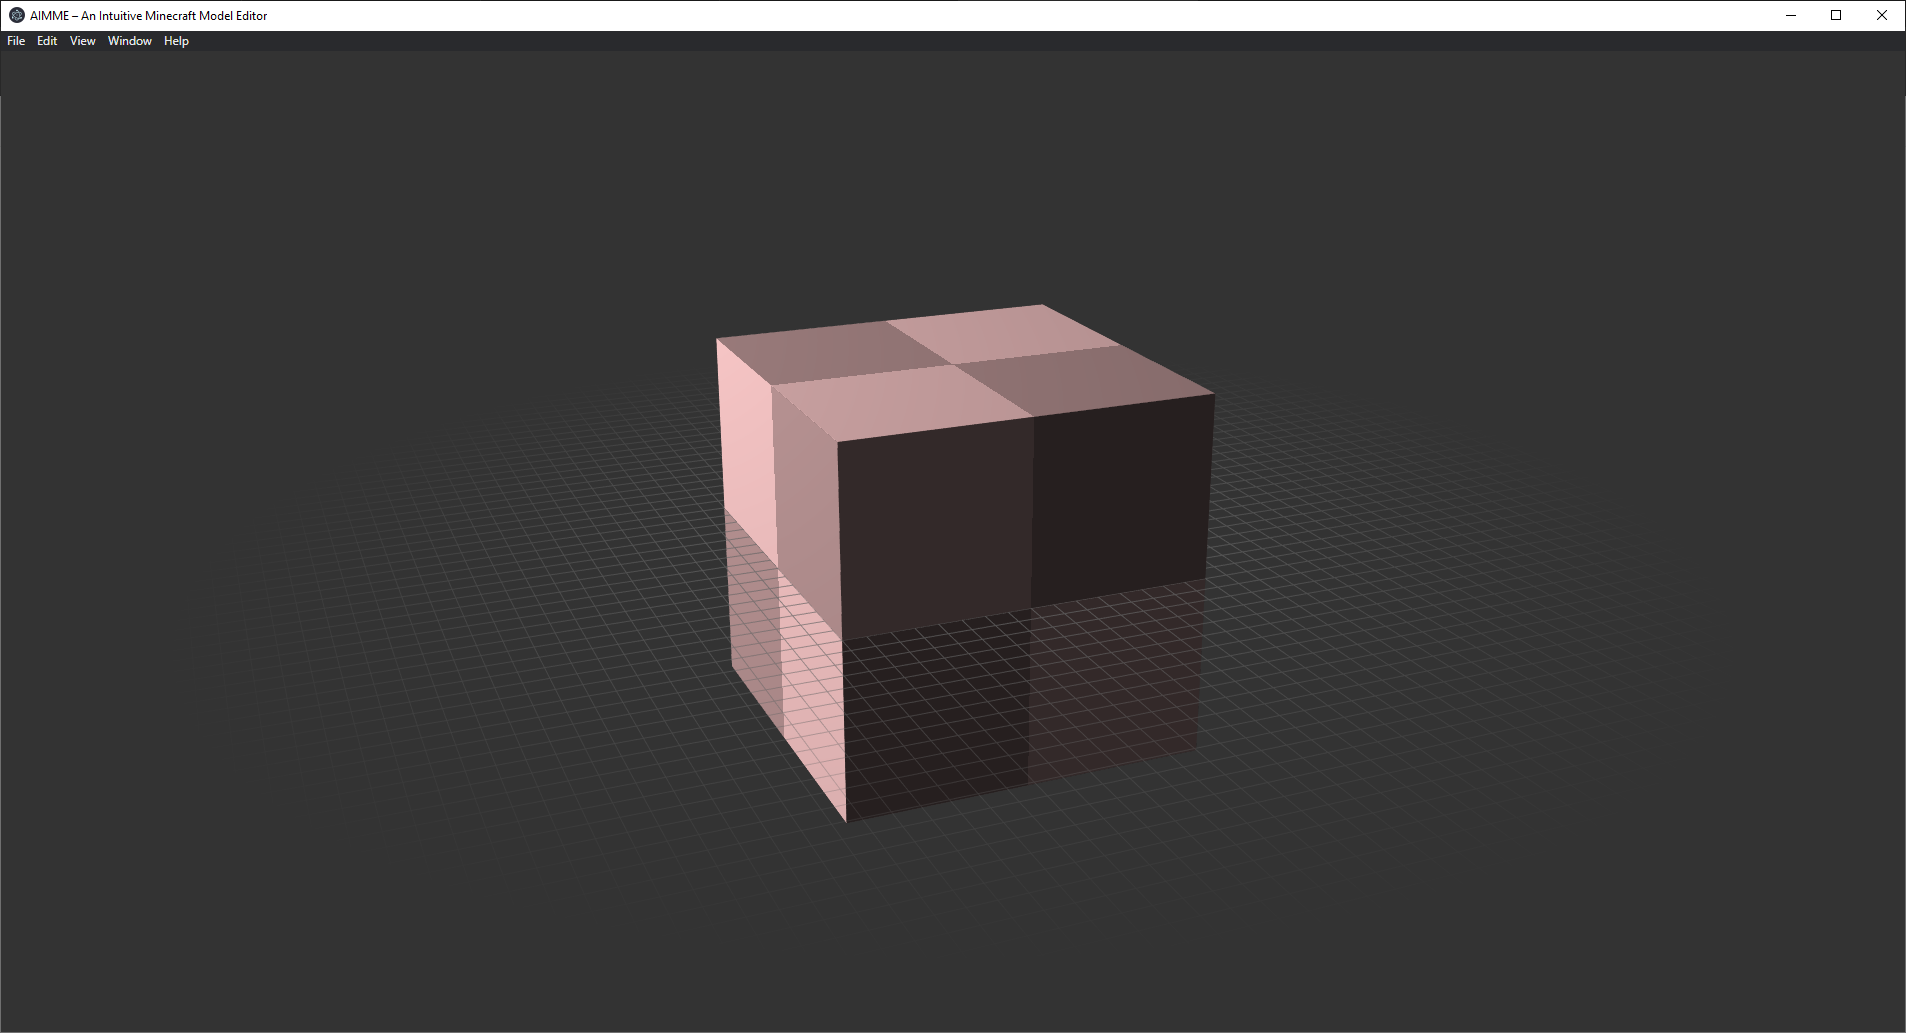
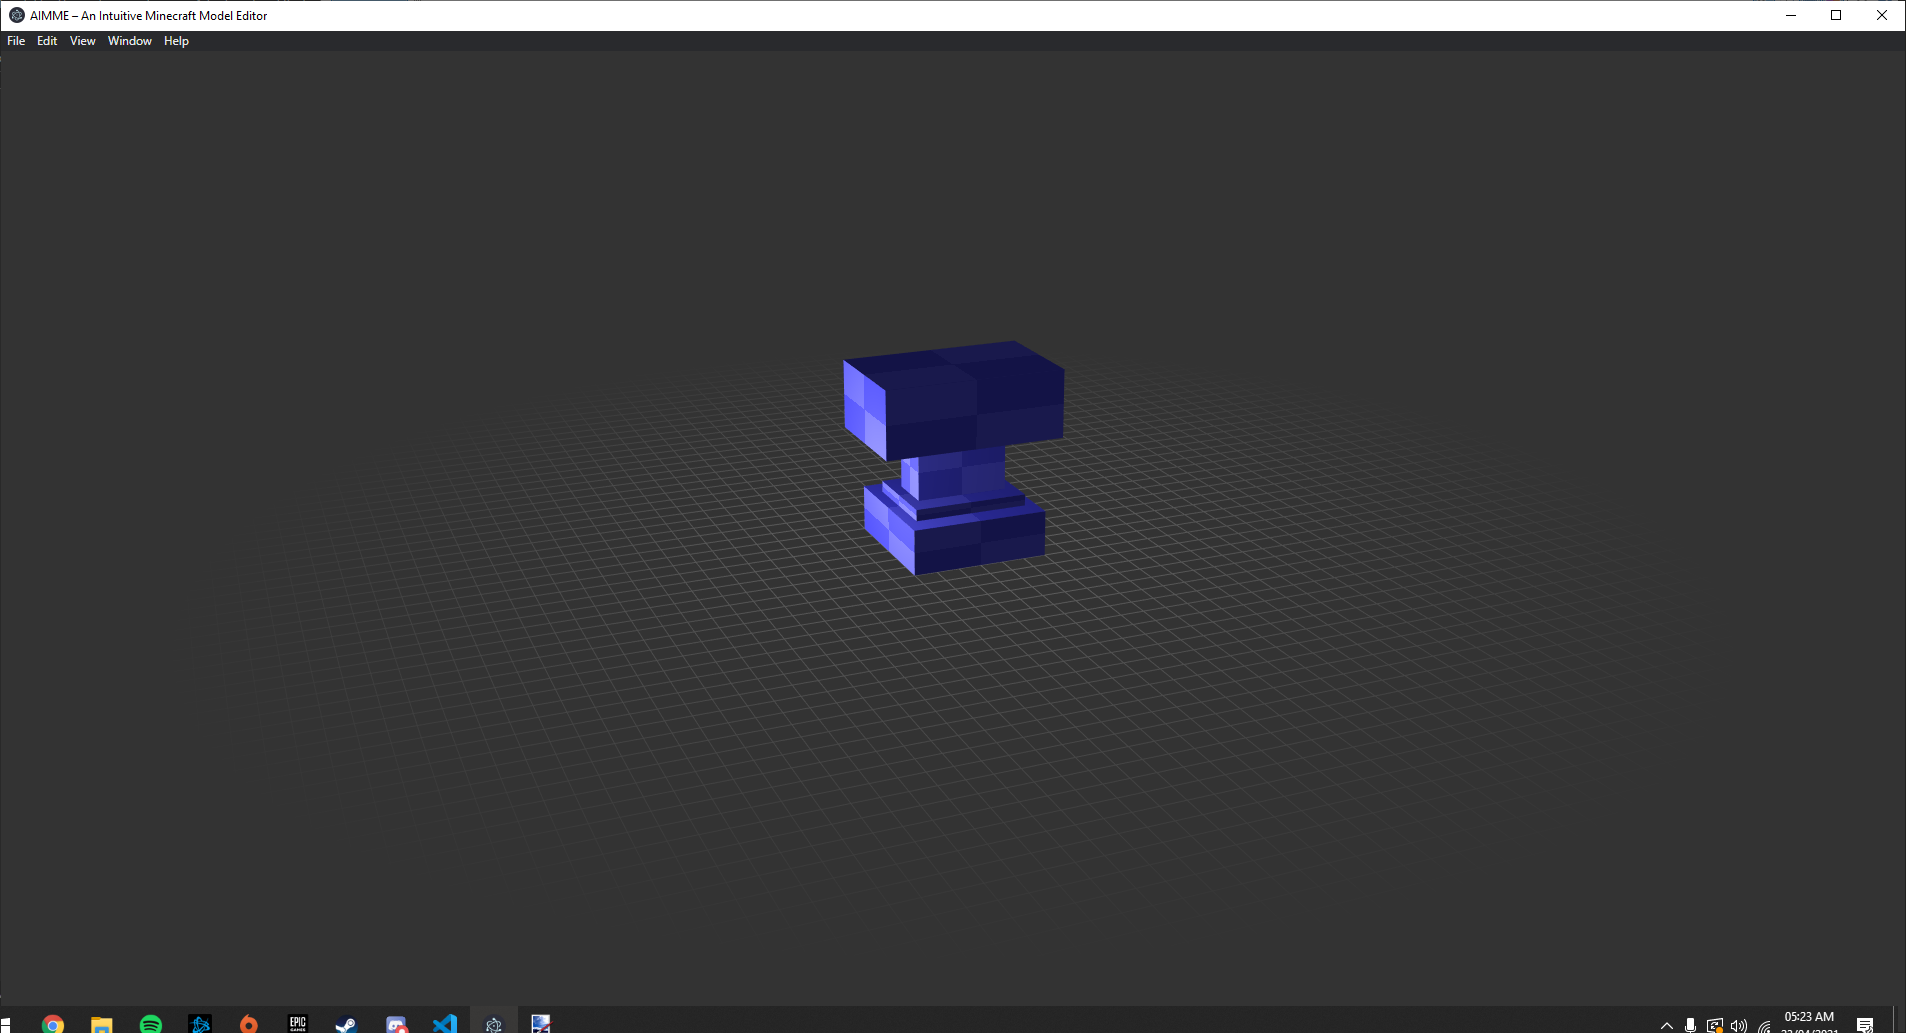
Added JSON model support

Changed region(s): [[0.3715, 0.2788, 0.6501, 0.8054], [0.0, 0.9603, 1.0, 1.0]]

diff --git a/src/mesh.js b/src/mesh.js
@@ -5,10 +5,10 @@ function generateGridMesh() {
     indices = [];
 
     var gridSize = 64;
-    var inc = 1.0/gridSize;
-    
-    for (let i = -gridSize/2; i < gridSize/2; i++) {
-        for (let j = -gridSize/2; j < gridSize/2; j++) {
+    var inc = 1.0 / gridSize;
+
+    for (let i = -gridSize / 2; i < gridSize / 2; i++) {
+        for (let j = -gridSize / 2; j < gridSize / 2; j++) {
             let k = indices.length;
 
             vertices.push(i, 0, j);
@@ -31,23 +31,89 @@ function generateGridMesh() {
 
     let k = indices.length;
 
-    vertices.push(gridSize/2, 0, -gridSize/2);
+    vertices.push(gridSize / 2, 0, -gridSize / 2);
     colours.push(0.0, 1.0, 1.0);
     indices.push(k);
 
-    vertices.push(gridSize/2, 0, gridSize/2);
+    vertices.push(gridSize / 2, 0, gridSize / 2);
     colours.push(0.0, 1.0, 1.0);
     indices.push(k + 1);
 
-    vertices.push(-gridSize/2, 0, gridSize/2);
+    vertices.push(-gridSize / 2, 0, gridSize / 2);
     colours.push(1.0, 0.0, 0.0);
     indices.push(k + 2);
 
-    vertices.push(gridSize/2, 0, gridSize/2);
+    vertices.push(gridSize / 2, 0, gridSize / 2);
     colours.push(1.0, 0.0, 0.0);
     indices.push(k + 3);
 
-    return {position: {numComponents: 3, data: vertices}, colour: {numComponents: 3, data: colours}, indices: indices};
+    return { position: { numComponents: 3, data: vertices }, colour: { numComponents: 3, data: colours }, indices: indices };
+}
+
+function generateFromToMesh(from, to) {
+    let x0 = from[0];
+    let y0 = from[1];
+    let z0 = from[2];
+    let x1 = to[0];
+    let y1 = to[1];
+    let z1 = to[2];
+    const arrays = {
+        position: [
+            x1, y1, z0,
+            x1, y1, z1,
+            x1, y0, z1,
+            x1, y0, z0,
+            x0, y1, z1,
+            x0, y1, z0,
+            x0, y0, z0,
+            x0, y0, z1,
+            x0, y1, z1,
+            x1, y1, z1,
+            x1, y1, z0,
+            x0, y1, z0,
+            x0, y0, z0,
+            x1, y0, z0,
+            x1, y0, z1,
+            x0, y0, z1,
+            x1, y1, z1,
+            x0, y1, z1,
+            x0, y0, z1,
+            x1, y0, z1,
+            x0, y1, z0,
+            x1, y1, z0,
+            x1, y0, z0,
+            x0, y0, z0],
+        normal: [1, 0, 0, 1, 0, 0, 1, 0, 0, 1, 0, 0, -1, 0, 0, -1, 0, 0, -1, 0, 0, -1, 0, 0, 0, 1, 0, 0, 1, 0, 0, 1, 0, 0, 1, 0, 0, -1, 0, 0, -1, 0, 0, -1, 0, 0, -1, 0, 0, 0, 1, 0, 0, 1, 0, 0, 1, 0, 0, 1, 0, 0, -1, 0, 0, -1, 0, 0, -1, 0, 0, -1],
+        texcoord: [1, 0, 0, 0, 0, 1, 1, 1, 1, 0, 0, 0, 0, 1, 1, 1, 1, 0, 0, 0, 0, 1, 1, 1, 1, 0, 0, 0, 0, 1, 1, 1, 1, 0, 0, 0, 0, 1, 1, 1, 1, 0, 0, 0, 0, 1, 1, 1],
+        indices: [0, 1, 2, 0, 2, 3, 4, 5, 6, 4, 6, 7, 8, 9, 10, 8, 10, 11, 12, 13, 14, 12, 14, 15, 16, 17, 18, 16, 18, 19, 20, 21, 22, 20, 22, 23],
+    };
+    return arrays;
+}
+
+function generateJSONMesh(json) {
+    let meshElements = json.elements;
+
+    position = [];
+    normal = [];
+    texcoord = [];
+    indices = [];
+
+    for (let i = 0; i < meshElements.length; i++) {
+        let element = meshElements[i];
+        mesh = generateFromToMesh(element.from, element.to);
+
+        position = position.concat(mesh.position);
+        normal = normal.concat(mesh.normal);
+        texcoord = texcoord.concat(mesh.texcoord);
+        let offset = 24 * i;
+        for (let j = 0; j < mesh.indices.length; j++) {
+            indices.push(mesh.indices[j] + offset);
+        }
+    }
+
+    return { position: position, normal: normal, texcoord: texcoord, indices: indices };
 }
 
 module.exports.generateGridMesh = generateGridMesh;
+module.exports.generateJSONMesh = generateJSONMesh;
+module.exports.generateFromToMesh = generateFromToMesh;

diff --git a/src/renderer.js b/src/renderer.js
@@ -18,12 +18,11 @@ const gl = document.querySelector("#c").getContext("webgl");
 const shadedProgram = twgl.createProgramInfo(gl, [shaded_vertex_shader, shaded_fragment_shader]);
 const unshadedProgram = twgl.createProgramInfo(gl, [unshaded_vertex_shader, unshaded_fragment_shader]);
 
-const arrays = {
-    position: [1, 1, -1, 1, 1, 1, 1, -1, 1, 1, -1, -1, -1, 1, 1, -1, 1, -1, -1, -1, -1, -1, -1, 1, -1, 1, 1, 1, 1, 1, 1, 1, -1, -1, 1, -1, -1, -1, -1, 1, -1, -1, 1, -1, 1, -1, -1, 1, 1, 1, 1, -1, 1, 1, -1, -1, 1, 1, -1, 1, -1, 1, -1, 1, 1, -1, 1, -1, -1, -1, -1, -1],
-    normal: [1, 0, 0, 1, 0, 0, 1, 0, 0, 1, 0, 0, -1, 0, 0, -1, 0, 0, -1, 0, 0, -1, 0, 0, 0, 1, 0, 0, 1, 0, 0, 1, 0, 0, 1, 0, 0, -1, 0, 0, -1, 0, 0, -1, 0, 0, -1, 0, 0, 0, 1, 0, 0, 1, 0, 0, 1, 0, 0, 1, 0, 0, -1, 0, 0, -1, 0, 0, -1, 0, 0, -1],
-    texcoord: [1, 0, 0, 0, 0, 1, 1, 1, 1, 0, 0, 0, 0, 1, 1, 1, 1, 0, 0, 0, 0, 1, 1, 1, 1, 0, 0, 0, 0, 1, 1, 1, 1, 0, 0, 0, 0, 1, 1, 1, 1, 0, 0, 0, 0, 1, 1, 1],
-    indices: [0, 1, 2, 0, 2, 3, 4, 5, 6, 4, 6, 7, 8, 9, 10, 8, 10, 11, 12, 13, 14, 12, 14, 15, 16, 17, 18, 16, 18, 19, 20, 21, 22, 20, 22, 23],
-};
+
+let model = fs.readFileSync('./resources/template_anvil.json', 'utf8');
+model = JSON.parse(model);
+const arrays = meshManager.generateJSONMesh(model);
+//const arrays = meshManager.generateFromToMesh(part.from, part.to);
 
 const bufferInfo = twgl.createBufferInfoFromArrays(gl, arrays);
 
@@ -43,7 +42,7 @@ const tex = twgl.createTexture(gl, {
 
 const shaded_uniforms = {
     u_lightWorldPos: [4, 8, -10],
-    u_lightColor: [1, 0.8, 0.8, 1],
+    u_lightColor: [1, 1.0, 1.0, 1],
     u_ambient: [0.2, 0.2, 0.2, 1],
     u_specular: [0.5, 0.5, 0.5, 1],
     u_shininess: 50,
@@ -51,7 +50,7 @@ const shaded_uniforms = {
     u_diffuse: tex,
 };
 
-var camera = new cameraHandler.ArcballCamera(30, gl.canvas.clientWidth / gl.canvas.clientHeight, 0.5, 20.0);
+var camera = new cameraHandler.ArcballCamera(30, gl.canvas.clientWidth / gl.canvas.clientHeight, 0.5, 30.0);
 
 gl.canvas.addEventListener('mousemove', (e) => {
     mouseHandler.handleInput(e);

diff --git a/src/main.js b/src/main.js
@@ -24,13 +24,7 @@ function createWindow () {
         pathname: path.join(__dirname, '../index.html'),
         protocol: 'file:',
         slashes: true
-    }));
-
-    /*
-    model = fs.readFileSync('./hopper.json', 'utf8');
-    model = JSON.parse(model);
-    console.log(model.elements);
-    */
+    }));    
 
     // Open the DevTools.
     //mainWindow.webContents.openDevTools();
